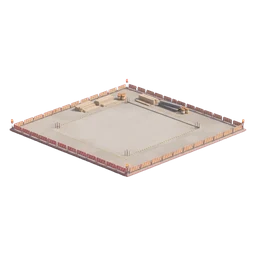
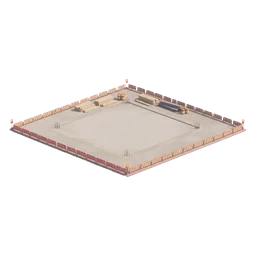
Paint construction layers (scaffold, crane, load, beacon, sparks), pad_build and roads; cut baked shadows; redo dust prompt
Claude-Session: https://claude.ai/code/session_01RrDtyUZUzqu6rAp9dA6JB4

diff --git a/tools/artcatalog.js b/tools/artcatalog.js
@@ -433,7 +433,7 @@ function build() {
   CBADD('city_build_load', 'Build: hanging load', '1:1, 1024 x 1024', 192, 'A bundle of steel beams strapped together with two orange lifting slings meeting at a single hook, hanging from a short straight cable going straight up out of the top of the image, the bundle in the lower half and perfectly level');
   CBADD('city_build_beacon', 'Build: warning beacon', '1:1, 1024 x 1024', 96, 'A small round amber rotating warning beacon glowing brightly on top of a short grey post with a small square base, the light visibly lit with a soft warm glow and a few short light rays');
   CBADD('city_build_sparks', 'Build: weld sparks', '1:1, 1024 x 1024', 128, 'A single burst of bright welding sparks: a small white-hot core with about twenty thin yellow-orange spark streaks flying outwards in all directions, each streak with a fading tail, on the plain background with no tool and no metal');
-  CBADD('city_build_dust', 'Build: dust puff', '1:1, 1024 x 1024', 128, 'A single soft round puff of pale sand-coloured construction dust: a rounded cloud of three overlapping lobes with soft feathered edges, semi-transparent looking, no debris, no ground');
+  CBADD('city_build_dust', 'Build: dust puff', '1:1, 1024 x 1024', 128, 'A single soft round puff of pale sand-coloured construction dust: a rounded cloud of three overlapping lobes with soft feathered edges, semi-transparent looking, no debris, no ground. Edges are wispy and see-through like a watercolour cloud, NOT solid balls, NOT dumplings, NOT blurry or out of focus, and there is NO cast shadow, NO floor and NO dark area under or beside it. Colour: warm pale sand (#E3D3B0) with a slightly lighter top');
   const RDC = 'Shape: the tile is a perfect flat diamond (isometric square, twice as wide as tall) that fills the frame width. The whole tile surface is plain warm sand-coloured ground, and the road is painted onto it. Road surface: smooth mid-grey asphalt, about one quarter of the tile width across, with a dashed white centre line. Road edges have only a thin painted pale line flush with the surface, NOT raised kerbs. The road always meets the tile edge exactly at the MIDDLE of that edge, so neighbouring tiles line up. Only tiny sand-coloured pebbles allowed beside the road: NO grass, NO bushes, NO trees, NO lights, NO markers, NO vehicles, NO text';
   const RD = {
     straight: 'A straight road tile: the road runs perfectly straight from the middle of the upper-left edge to the middle of the lower-right edge of the diamond, parallel to the diamond sides, no bend',

diff --git a/tools/ingest.py b/tools/ingest.py
@@ -82,12 +82,19 @@ def magenta_key(im, mask):
     between lamps), fades the purple shadow edge, and removes the magenta cast from edge pixels."""
     rgb = im.convert('RGB'); r, g, b = rgb.split()
     m = ImageChops.subtract(ImageChops.darker(r, b), g)                       # how magenta a pixel is
-    a = m.point(lambda v: 255 if v <= 28 else 0 if v >= 64 else int(255 * (64 - v) / 36))
+    a = m.point(lambda v: 255 if v <= 16 else 0 if v >= 40 else int(255 * (40 - v) / 24))
     a = ImageChops.darker(a, mask.filter(ImageFilter.MinFilter(3)))
     edge = a.point(lambda v: 255 if v < 250 else 0).filter(ImageFilter.MaxFilter(9))   # pixels near the cut
     m2 = ImageChops.multiply(m.point(lambda v: v if v > 8 else 0), edge.point(lambda v: 255 if v else 0))
     r = ImageChops.subtract(r, m2); b = ImageChops.subtract(b, m2)
     out = Image.merge('RGB', (r, g, b)).convert('RGBA'); out.putalpha(a.filter(ImageFilter.GaussianBlur(0.6))); return out
+
+SHADOW = {'city_build_crane': 125, 'city_build_beacon': 125, 'city_build_sparks': 175}   # layers that arrive with a baked floor shadow: grey-brown and darker than the art, so cut it by brightness
+
+def drop_shadow(im, thr):
+    rgb = im.convert('RGB'); lum = rgb.convert('L').point(lambda v: 255 if v >= thr else 0)
+    a = ImageChops.darker(im.getchannel('A'), lum.filter(ImageFilter.MaxFilter(3)))
+    out = im.copy(); out.putalpha(a); return out
 
 def has_alpha(im):
     return im.mode in ('RGBA', 'LA') and im.getchannel('A').getextrema()[0] < 250
@@ -106,6 +113,7 @@ def process(path):
         im = im.convert('RGB')
         if it['size'].startswith('1:1') and im.width != im.height:  # not square: centre-crop so it does not stretch
             n = min(im.size); l, t = (im.width - n) // 2, (im.height - n) // 2; im = im.crop((l, t, l + n, t + n)); note = 'centre-cropped to square'
+    if k in SHADOW and im.mode == 'RGBA': im = drop_shadow(im, SHADOW[k]); note += ', floor shadow cut'
     if it['transparent'] and k.startswith('city_ground'): im = trim(im)   # ground blobs are wide: keep their own aspect, the game stretches them over the island
     elif it['transparent'] and it['size'].startswith('1:1'): im = square(im)
     m = it['out']; sc = m / max(im.size)
